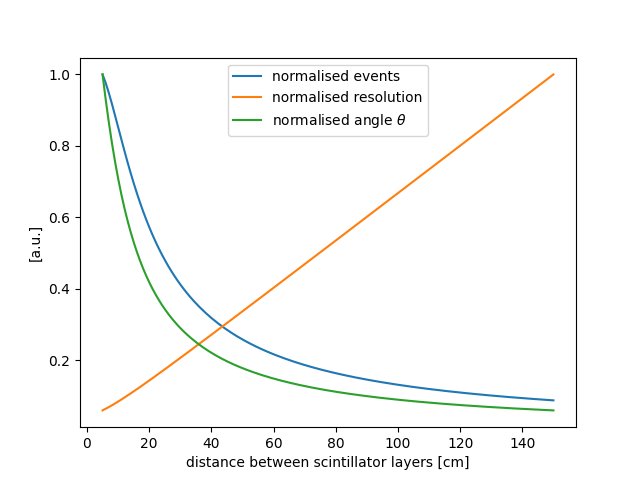
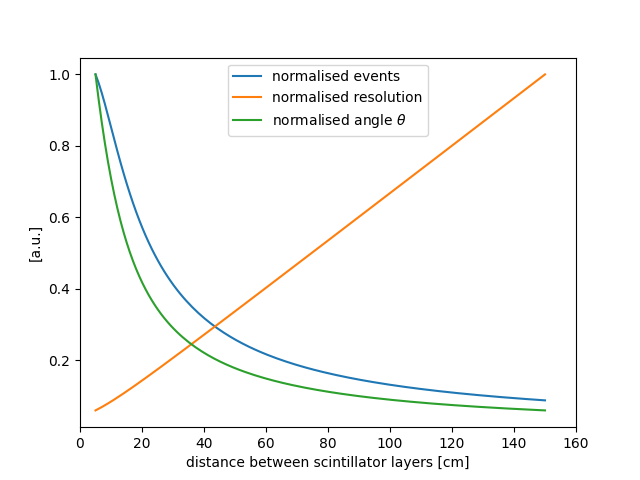
find distance of detector layers -fh

diff --git a/Analysis/share/find_height.py b/Analysis/share/find_height.py
@@ -1,3 +1,7 @@
+# numerical analysis to get idea how far to distance the detector layers
+# @haslbeck
+# 17 June 2021
+
 import numpy as np
 import matplotlib.pyplot as plt
 
@@ -46,7 +50,7 @@ def normed_angle(h=heights):
 plt.plot(heights, normed_events(), label = 'normalised events')
 plt.plot(heights, normed_resolution(), label = 'normalised resolution')
 plt.plot(heights, normed_angle(), label = 'normalised angle $\\theta$')
-
+plt.xlim(0,160)
 plt.xlabel("distance between scintillator layers [cm]")
 plt.ylabel("[a.u.]")
 plt.legend()
